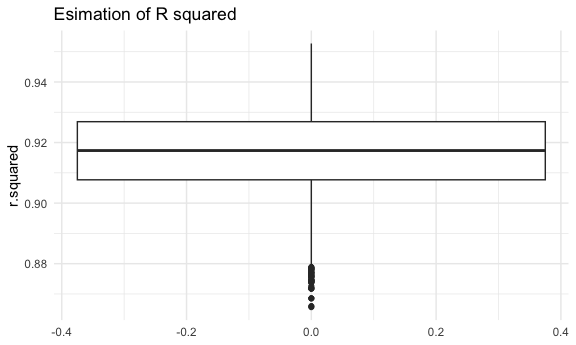
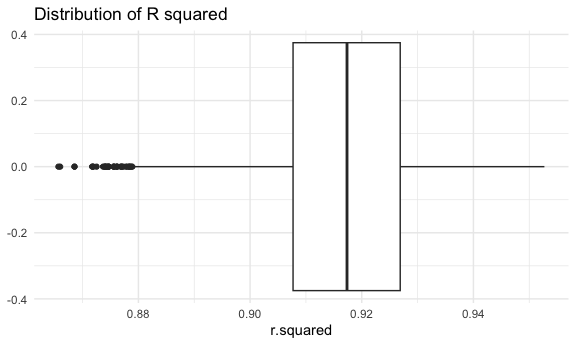
revised comments

diff --git a/p8105_hw6_sw3879.md b/p8105_hw6_sw3879.md
@@ -89,7 +89,7 @@ nest_glm |> ggplot(aes(x = city_state, y = OR)) +
 
 <img src="p8105_hw6_sw3879_files/figure-gfm/unnamed-chunk-6-1.png" width="90%" />
 
-NYC has the lowest odd ratio while Albuquerque has the highest, meaning
+NYC has the lowest odds ratio while Albuquerque has the highest, meaning
 that in NYC, the odds of resolved cases for male victims vs. female
 victims is the lowest, and in Albuquerque the highest, while all other
 factors held constant.
@@ -169,54 +169,62 @@ results_rsq = boot_results |>
   distinct(.keep_all = TRUE)
 ```
 
-Plotting estimates
+Looking at log(b1\*b2)
 
 ``` r
-results_logb1b2 |> ggplot(aes(y = logb1b2)) + geom_boxplot() +
-  labs(title = "Estimation of log(b1*b2)")
+results_logb1b2 |> ggplot(aes(x = logb1b2)) + geom_boxplot() +
+  labs(title = "Distribution of log(b1*b2)")
 ```
 
 <img src="p8105_hw6_sw3879_files/figure-gfm/unnamed-chunk-12-1.png" width="90%" />
 
-The 95% CI for log(b1\*b2)
+The median of log(b1\*b2) is around -6, the data is left-skewed with
+many outliers at the lower end.
+
+One thing to note here is that there are a lot of negative estimate
+values for `prcp`, so many log(b1\*b2) is `NaN`, and these are excluded
+from plotting or calculation of quantiles. Only 1639 rows out of 5000
+rows have valid log(b1\*b2) values.
+
+The 95% CI for log(b1\*b2):
 
 ``` r
 results_logb1b2 |> summarise(
-  upperCI = quantile(logb1b2, 0.975, na.rm = TRUE),
-  lowerCI = quantile(logb1b2, 0.025, na.rm = TRUE)) |> 
+  lowerCI = quantile(logb1b2, 0.025, na.rm = TRUE),
+  upperCI = quantile(logb1b2, 0.975, na.rm = TRUE)) |> 
   knitr::kable()
 ```
 
-|   upperCI |   lowerCI |
+|   lowerCI |   upperCI |
 |----------:|----------:|
-| -4.601673 | -8.981559 |
+| -8.981559 | -4.601673 |
 
 ``` r
-results_rsq |> ggplot(aes(y = r.squared)) + geom_boxplot() + 
-  labs(title = "Esimation of R squared")
+results_rsq |> ggplot(aes(x = r.squared)) + geom_boxplot() + 
+  labs(title = "Distribution of R squared")
 ```
 
 <img src="p8105_hw6_sw3879_files/figure-gfm/unnamed-chunk-14-1.png" width="90%" />
-
-The 95% CI for r-squared
-
-``` r
-results_rsq |> summarise(
-  upperCI = quantile(r.squared, 0.975, na.rm = TRUE),
-  lowerCI = quantile(r.squared, 0.025, na.rm = TRUE)) |> 
-  knitr::kable()
-```
-
-|   upperCI |   lowerCI |
-|----------:|----------:|
-| 0.9406812 | 0.8885495 |
 
 The estimated R squared value is close to 1, meaning there is a high
 percentage in the variance of `tmax` that can be explained by the
 relationship with the predictors `tmin` and `prcp`.
 
-COMMENT Significant amount of NaN values in log(b1\*b2) due to negative
-precipitation values.
+The 95% CI for r-squared:
+
+``` r
+results_rsq |> summarise(
+  lowerCI = quantile(r.squared, 0.025, na.rm = TRUE),
+  upperCI = quantile(r.squared, 0.975, na.rm = TRUE)) |> 
+  knitr::kable()
+```
+
+|   lowerCI |   upperCI |
+|----------:|----------:|
+| 0.8885495 | 0.9406812 |
+
+The 95% CI is relatively small and close to 1, meaning overall the model
+fits the data relatively well.
 
 ## Problem 3
 
@@ -241,13 +249,35 @@ bwt_df = read_csv("data/birthweight.csv") |>
     ## ℹ Use `spec()` to retrieve the full column specification for this data.
     ## ℹ Specify the column types or set `show_col_types = FALSE` to quiet this message.
 
-My hypothesis is that birth weight is associated with presence of
-malformation `malform` and mother’s weight gain during pregnancy
-`wtgain`, since I hypothesize pregnant mom with greater weight gain may
-have babies that weigh more, and those who don’t have malformation might
-have higher weight. I will use MLR to fit `malform` and `wtgain` as
-predictor, and `bwt` as outcome. I will also include an interaction
-term.
+``` r
+print("Displaying the number of missing values in each column:")
+```
+
+    ## [1] "Displaying the number of missing values in each column:"
+
+``` r
+colSums(is.na(bwt_df))
+```
+
+    ##  babysex    bhead  blength      bwt    delwt  fincome    frace  gaweeks 
+    ##        0        0        0        0        0        0        0        0 
+    ##  malform menarche  mheight   momage    mrace   parity  pnumlbw  pnumsga 
+    ##        0        0        0        0        0        0        0        0 
+    ##    ppbmi     ppwt   smoken   wtgain 
+    ##        0        0        0        0
+
+For data cleaning, I reorganized all categorical data into factor; there
+is no missing data in this set.
+
+To propose a model, my hypothesis is that birth weight is associated
+with presence of malformation `malform` and mother’s weight gain during
+pregnancy `wtgain`, since I hypothesize pregnant mom with greater weight
+gain may have babies that weigh more, and babies who don’t have
+malformation might have higher weight. I will use MLR to fit `malform`
+and `wtgain` as predictor, and `bwt` as outcome. I will also include an
+interaction term since I assume `malform` may be an effect modifier.
+
+Fitting the model I proposed:
 
 ``` r
 q3m1 = lm(bwt ~ malform + wtgain + malform*wtgain, data = bwt_df)
@@ -263,7 +293,7 @@ broom::tidy(q3m1)
     ## 3 wtgain                    11.7     0.690     16.9  3.39e-62
     ## 4 malformpresent:wtgain    -18.8     9.76      -1.92 5.44e- 2
 
-Plotting residuals agains fitted value for my model:
+Plotting residuals against fitted value for my model:
 
 ``` r
 bwt_df |> modelr::add_predictions(q3m1) |> 
@@ -273,6 +303,9 @@ bwt_df |> modelr::add_predictions(q3m1) |>
 ```
 
 <img src="p8105_hw6_sw3879_files/figure-gfm/unnamed-chunk-18-1.png" width="90%" />
+
+From this plot, we can see that the residuals are very large, meaning
+the this is not an optimal model.
 
 Now comparing with the other two given models:
 
@@ -363,4 +396,4 @@ cv_results |>
 <img src="p8105_hw6_sw3879_files/figure-gfm/unnamed-chunk-21-1.png" width="90%" />
 
 The 2 alternative models are significantly better than the model I
-proposed due to the lower RMSE.
+proposed due to lower RMSE.
